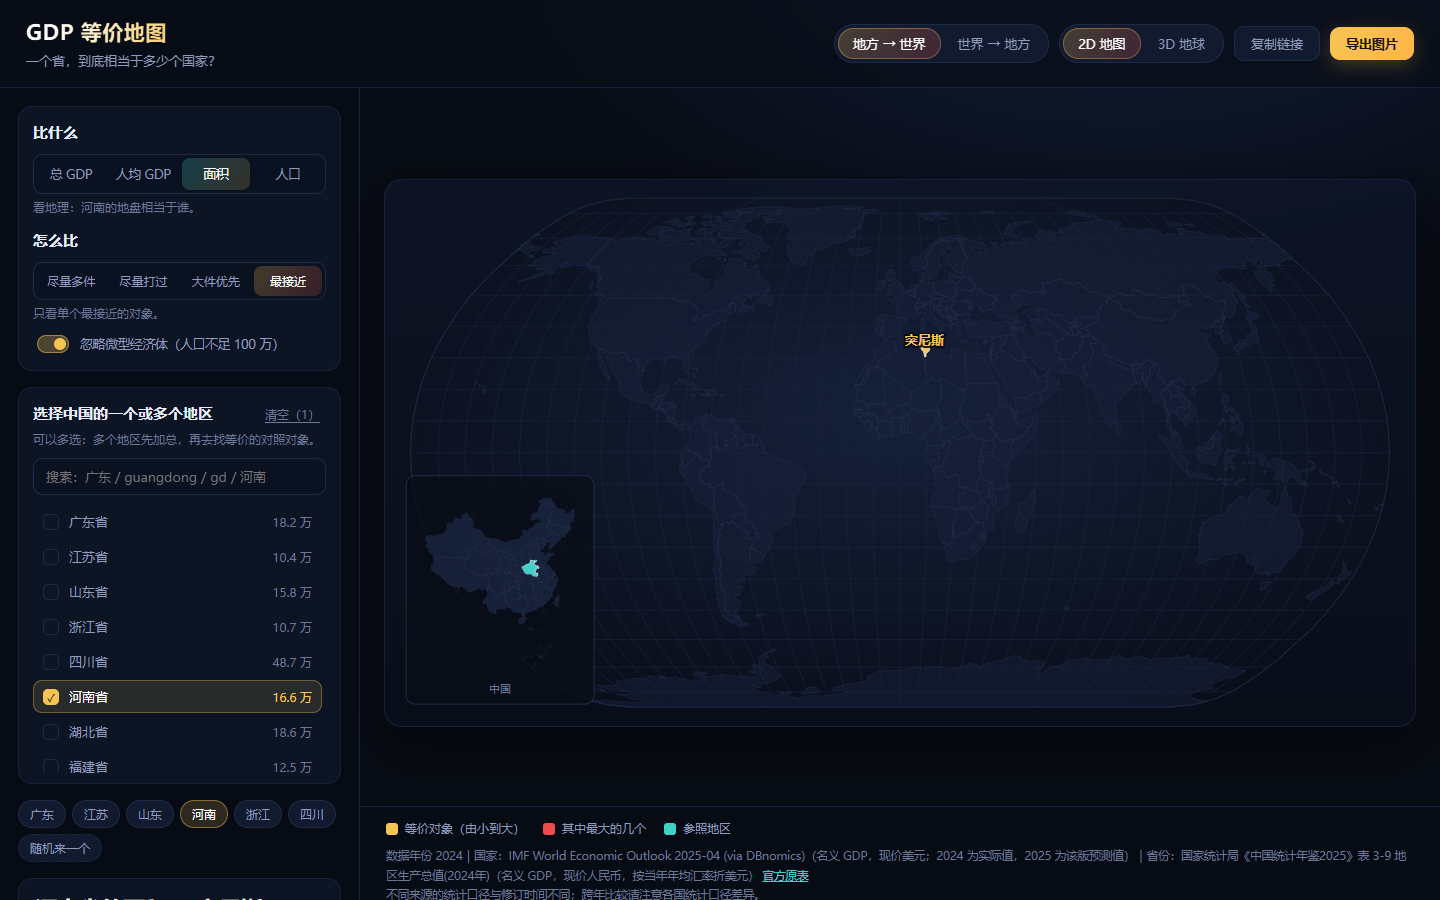
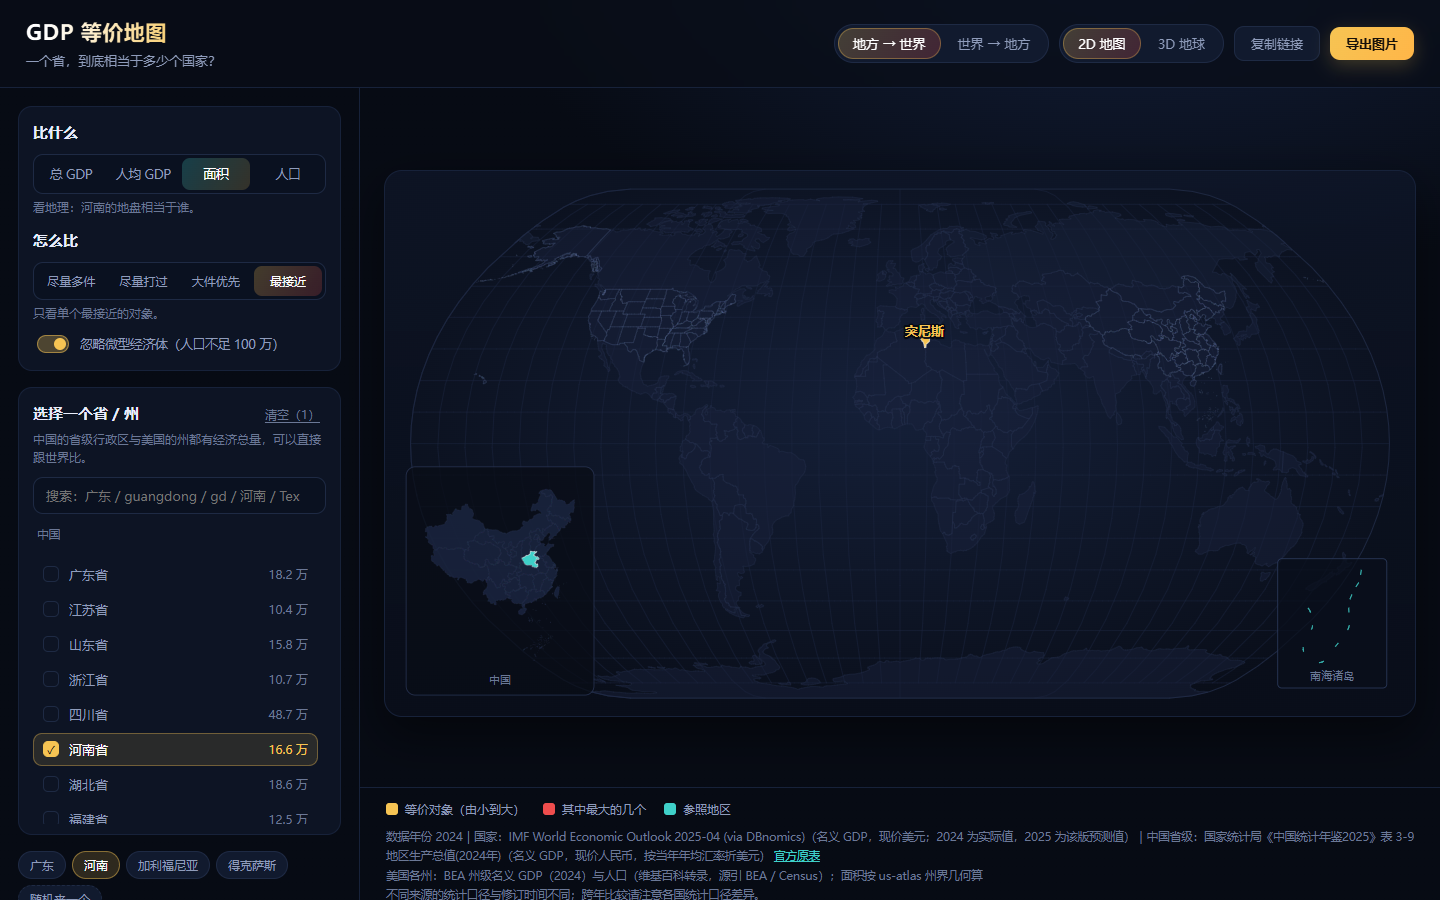
docs: describe the global comparison and the area silhouettes

diff --git a/README.md b/README.md
@@ -10,17 +10,17 @@
 
 | 模式 | 输入 | 输出 |
 | --- | --- | --- |
-| 地方 → 世界 | 选 1~N 个中国省级地区 | 地图上高亮等价的对照对象，并给出「≈ N 个国家」 |
-| 世界 → 地方 | 选 1 个国家 | 中国地图上高亮等价省份组合，并附南海诸岛 |
+| 地方 → 世界 | 选 1~N 个省/州（中国省级行政区、美国各州） | 世界地图上高亮等价的对照对象，并给出「≈ N 个国家」 |
+| 世界 → 地方 | 选 1 个国家 | 世界地图上高亮等价的省/州组合（跨国混搭，比如「日本 ≈ 得克萨斯州 + 浙江省」） |
 
 **四个指标**（同一个地方，可以比不同的东西）：
 
-| 指标 | 河南省的结果 | 广东省的结果 |
+| 指标 | 河南省的结果 | 得克萨斯州的结果 |
 | --- | --- | --- |
-| 总 GDP | ≈ 52 个国家之和（超出 1.4%） | ≈ 韩国 + 哥斯达黎加 + 冈比亚 |
-| 人均 GDP | ≈ 格鲁吉亚（9,141 美元/人） | ≈ 土耳其（15,463 美元/人） |
-| 面积 | ≈ 突尼斯（16.4 万 km²） | ≈ 柬埔寨 + 巴林 |
-| 人口 | ≈ 越南（1.01 亿人） | ≈ 菲律宾 + 尼泊尔 |
+| 总 GDP | ≈ 52 个国家之和（超出 1.4%） | ≈ 82 个国家之和 |
+| 人均 GDP | ≈ 格鲁吉亚（9,141 美元/人） | ≈ 马耳他（34,212 美元/人） |
+| 面积 | ≈ 突尼斯（16.4 万 km²） | ≈ 缅甸（67.8 万 km²） |
+| 人口 | ≈ 越南（1.01 亿人） | ≈ 巴基斯坦 + 孟加拉国 |
 
 人均 GDP 不可累加，所以只跟单个对象比；总量、面积、人口可以累加，于是有**四种对照方式**：
 
@@ -32,11 +32,11 @@
 | 最接近 | 只看单个最接近的对象 | 波兰，+2.8% |
 
 再配合「忽略微型经济体（人口不足 100 万）」开关，可以把图瓦卢、瑙鲁这类微型国家从结果里剔掉。
-结果卡里还会附上彩蛋：参照物在世界上排第几位、这批国家一共住着多少人。
+结果卡里还会附上彩蛋：参照物在世界上排第几位、这批国家一共住着多少人、**同一比例尺的面积剪影对照**（河南 vs 突尼斯并排一比，谁大谁小一眼可见）。
 
-- **2D 世界地图**：Natural Earth 投影，等价对象按累加顺序由暖到暗着色，左下角带中国定位小图
+- **2D 世界地图**：Natural Earth 投影，中国省级与美国州界作为细分层叠在国家之上，右下角附南海诸岛小图
 - **3D 地球**：正射投影球面，自动旋转、可拖动，参照地区与等价对象之间连大圆弧线（被球体背面遮住的部分会断开，不会横穿地球）
-- **搜索**：中文 / 拼音 / 拼音首字母都能搜（`广东` / `guangdong` / `gd`）
+- **搜索**：中文 / 拼音 / 拼音首字母都能搜（`广东` / `guangdong` / `gd` / `Texas`）
 - **分享**：选择状态、指标、对照方式、过滤开关都写进 URL，复制链接即可复现同一张图
 - **导出**：一键导出带标题与数据来源的 PNG（2D / 3D 都支持）
 
@@ -65,9 +65,14 @@ node scripts/acceptance.mjs   # 浏览器级验收（需先起 dev server）
 | 国家面积 | mledoze/countries（Natural Earth 口径 + 修正） | 平方公里 |
 | 中国省级 | 国家统计局《中国统计年鉴2025》表 3-9《地区生产总值(2024年)》 | 名义 GDP + 人均 GDP，现价人民币，按当年年均汇率折美元；人口由「总量 ÷ 人均」反推 |
 | 中国省面积 | DataV.GeoAtlas 边界几何（球面面积换算） | 平方公里，估算值 |
+| 美国各州 | BEA 州级名义 GDP（2024）与人口（维基百科转录，源引 BEA / Census） | 美元；人口由「GDP ÷ 人均」反推；面积按 us-atlas 州界几何算 |
 | 汇率 | World Bank `PA.NUS.FCRF` | 年均官方汇率 |
 | 世界边界 | Natural Earth（经 D3 graph gallery 转换，ISO3 编号） | 台湾并入中国轮廓 |
 | 中国边界 | 阿里云 DataV.GeoAtlas | 34 个省级行政区 + 南海诸岛（符合国内地图合规要求） |
+| 美国州界 | us-atlas（TopoJSON，FIPS 编号） | 州界几何 |
+
+交叉校验：31 个省合计与全国 GDP 差 0.72%（地区加总 ≠ 全国的正常口径差）；
+美国 51 个州合计与全美 GDP 差 **0.16%**。
 
 省级数据的数值是从年鉴官方表格图片人工读取后落库的（`data/provincial-gdp-2024.json`），
 原图保留在 `data/raw/`，来源链接写在页面页脚，点击「官方原表」可核对。
@@ -105,14 +110,16 @@ node scripts/acceptance.mjs   # 浏览器级验收（需先起 dev server）
 │  └─ acceptance.mjs         # Playwright 浏览器级验收
 ├─ data/
 │  ├─ provincial-gdp-2024.json  # 年鉴表格读数（带出处）
+│  ├─ us-states.json            # 美国 51 州中英文名对照
 │  └─ raw/                      # 原始抓取缓存（不入库）
 ├─ public/
-│  ├─ data/regions.json      # 国家 + 省级 GDP（含中文名、搜索关键字）
-│  └─ geo/{world,china}.json # 地图边界
+│  ├─ data/regions.json      # 统一对象池：国家 + 省/州（含中文名、搜索关键字、各项指标）
+│  └─ geo/{world,china,us-states}.json # 地图边界
 └─ src/
    ├─ lib/match.ts           # 核心算法（唯一自研部分）
+   ├─ lib/metrics.ts         # 指标定义（格式、标题、能不能累加）
    ├─ lib/{data,geo,format,url,export}.ts
-   └─ components/{WorldMap,ChinaMap,GlobeView,RegionPicker,ResultPanel}.tsx
+   └─ components/{WorldMap,ChinaMap,GlobeView,RegionPicker,ResultPanel,AreaSilhouette,SouthSeaBox}.tsx
 ```
 
 ## 数据更新
@@ -124,9 +131,9 @@ node scripts/acceptance.mjs   # 浏览器级验收（需先起 dev server）
 
 - 只做了**名义 GDP（当年价格美元）**。PPP 口径在原始数据里备着，但省级没有同口径的 PPP 源，暂不开放切换
 - 数据年份目前锁定 2024（双方都有官方实绩的最新完整年度）
-- 只有中国省级 + 世界国家；美国州、欧洲 NUTS 暂未接入
+- 省/州目前覆盖中国与美国；欧洲 NUTS、日本都道府县等暂未接入（数据管线加一份源文件即可扩）
 - 省级面积是按边界几何估算的（与官方公布值相差 1% 上下），省级人口由「总量 ÷ 人均」反推
-- 「≈ N 个国家」是贪心累加的结果，不同算法会得到不同但同样合理的组合；四种对照方式就是给这件事的四个口径
+- 面积剪影对照用等积投影，保证画出来的大小就是真实大小之比
 
 ## License
 

diff --git a/AGENTS.md b/AGENTS.md
@@ -15,7 +15,7 @@
 ## 2. 现状
 
 已经跑起来了：数据管线、2D 地图、3D 地球、搜索、URL 分享、PNG 导出全部可用，
-浏览器级验收 12 项全过。
+浏览器级验收 26 项全过。
 
 ```
 046/
@@ -27,18 +27,21 @@
 │   └── acceptance.mjs      # Playwright 验收（用本机 Chrome）
 ├── data/
 │   ├── provincial-gdp-2024.json   # 年鉴表 3-9 读数（含出处 URL）
+│   ├── us-states.json             # 美国 51 州中英文名对照
 │   └── raw/                       # 原始缓存（.gitignore）
 ├── public/
-│   ├── data/regions.json          # 189 个国家 + 34 个省级地区
-│   └── geo/{world,china}.json
+│   ├── data/regions.json          # 统一对象池：189 国 + 34 中国省级 + 51 美国州
+│   └── geo/{world,china,us-states}.json
 └── src/
     ├── lib/match.ts               # 唯一自研：贪心累加匹配
+    ├── lib/metrics.ts             # 指标定义（格式、标题、能不能累加）
     ├── lib/{data,geo,format,url,export}.ts
-    └── components/{WorldMap,ChinaMap,GlobeView,RegionPicker,ResultPanel}.tsx
+    └── components/{WorldMap,ChinaMap,GlobeView,RegionPicker,ResultPanel,AreaSilhouette,SouthSeaBox}.tsx
 ```
 
-- 数据年份 2024：国家用 IMF WEO 2025-04 的实际值，省级用《中国统计年鉴2025》表 3-9。
-- 31 省合计与全国 GDP 差 0.72%（地区加总 ≠ 全国的正常口径差）。
+- 数据年份 2024：国家用 IMF WEO 2025-04 的实际值，中国省级用《中国统计年鉴2025》表 3-9，
+  美国各州用 BEA 州级 GDP。
+- 交叉校验：31 省合计与全国 GDP 差 0.72%；美国 51 州合计与全美 GDP 差 0.16%。
 
 ## 3. 已确定的事（不要重新讨论）
 
@@ -47,18 +50,20 @@
 2. **对照方式有四种，不要合并成一种。** 纯贪心永远给出图瓦卢、瑙鲁那一串微型国家，
    所以另给了「尽量多件 / 尽量打过 / 大件优先 / 最接近」四种口径，
    外加「忽略微型经济体（人口 < 100 万）」开关。默认「尽量打过」。
-2. **指标有四个，不只是 GDP。** 总 GDP / 人均 GDP / 面积 / 人口。
+3. **指标有四个，不只是 GDP。** 总 GDP / 人均 GDP / 面积 / 人口。
    人均 GDP 不可累加，只能跟单个对象比（UI 里另外三个口径会置灰）；
    面积、人口、总量可累加。指标定义集中在 `src/lib/metrics.ts`，加指标不用动算法。
-2. **纯 SVG，不引 WebGL。** 地球用 d3-geo 正射投影实现。曾经用 globe.gl（three.js），
+4. **不只中国。** 地区池是「国家 + 省/州」的统一对象池（`regions.json` 的 `objects`），
+   目前有中国 34 个省级行政区与美国 51 个州；接欧洲 NUTS、日本都道府县只要再加一份源数据。
+5. **纯 SVG，不引 WebGL。** 地球用 d3-geo 正射投影实现。曾经用 globe.gl（three.js），
    在受限环境里会把页面渲染进程卡死，且导出要走 canvas，收益远小于代价。
-3. **只用名义 GDP（当年价格美元）。** PPP 在原始数据里备着，但省级没有同口径 PPP 源，
+6. **只用名义 GDP（当年价格美元）。** PPP 在原始数据里备着，但省级没有同口径 PPP 源，
    开放切换会造成两边口径不一致，所以不做。
-4. **数据年份锁定 2024。** 这是双方都有官方实绩的最新完整年度。要扩年份，先解决省级数据来源。
-5. **中国地图用 DataV 边界并附南海诸岛小图。** 面向国内发布时这是合规要求，别去掉。
-6. **台湾并入中国轮廓（世界地图）。** 中国省级列表里台湾省是单独一级行政区。
-7. **港澳台走省级池，不进国家池。** 避免同一个经济体在两个列表里各出现一次。
-8. **对照方式与过滤开关写进 URL。** 分享链接要复现同一张图，光有选择项不够。
+7. **数据年份锁定 2024。** 这是双方都有官方实绩的最新完整年度。要扩年份，先解决省级数据来源。
+8. **中国地图用 DataV 边界并附南海诸岛小图。** 面向国内发布时这是合规要求，别去掉。
+9. **台湾并入中国轮廓（世界地图）。** 中国省级列表里台湾省是单独一级行政区。
+10. **港澳台走省级池，不进国家池。** 避免同一个经济体在两个列表里各出现一次。
+11. **对照方式与过滤开关写进 URL。** 分享链接要复现同一张图，光有选择项不够。
 
 ## 4. 已知的技术坑（改代码前先看这里）
 
@@ -79,14 +84,19 @@
   换年鉴版本时要重新读数，不要从别处抄。
 - **算面积要用反转绕向后的几何。** 原始 DataV 绕向会被 d3-geo 当成球面补集，
   算出来是 5 亿 km²（`reverseRings()` 之后才是对的 16.6 万 km²）。
+- **d3 的 `path.bounds()` 返回 2×2 数组**（`[[x0,y0],[x1,y1]]`），按 4 元组取中心点会得到 NaN，
+  路径就会变成 `MNaN,NaN...`（剪影对照踩过这个坑）。
+- **面积剪影对照必须用等积投影**（geoEqualEarth）。用 Mercator 的话高纬度国家会被放大，
+  比出来的「谁大」就是假的。
 
 ## 5. 下一步可以做什么
 
 按价值排序：
 
-1. **省掉图片人工读数**：找一份可机读的分省 GDP 官方来源（年鉴 Excel、统计公报汇总），
+1. **再接几个国家的一级行政区**（欧洲 NUTS-1、日本都道府县、德国联邦州、巴西州），
+   管线加一份源文件 + 一个中文名对照表即可，数据模型已经是统一的 `objects` 池。
+2. **省掉图片人工读数**：找一份可机读的分省 GDP 官方来源（年鉴 Excel、统计公报汇总），
    把 `data/provincial-gdp-2024.json` 变成脚本产物。
-2. **接入美国州 / 欧洲 NUTS-1**，让「地方」不止中国。
 3. **PPP 口径**：需要省级 PPP 源，否则保持现状。
 4. **OG 分享图**：加 `ImageResponse` 之类，让分享链接在社交平台带缩略图。
 5. **部署**：静态站，`dist/` 可直接上 Cloudflare Pages / GitHub Pages / Vercel。
@@ -95,6 +105,6 @@
 
 - `npm run typecheck` 无错
 - `npm run test` 全绿（核心算法单测）
-- `node scripts/acceptance.mjs` 12 项全过（需先起 dev server）
+- `node scripts/acceptance.mjs` 26 项全过（需先起 dev server）
 - `npm run build` 成功产出 `dist/`
 - 页脚数据来源与官方原表链接可点、可见
